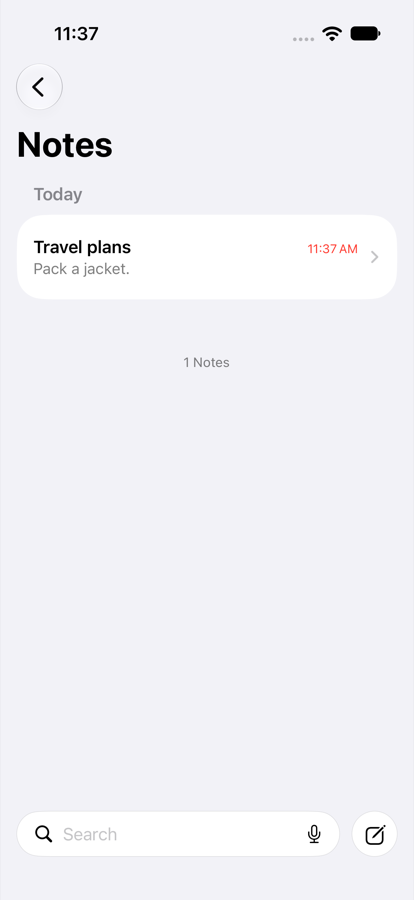
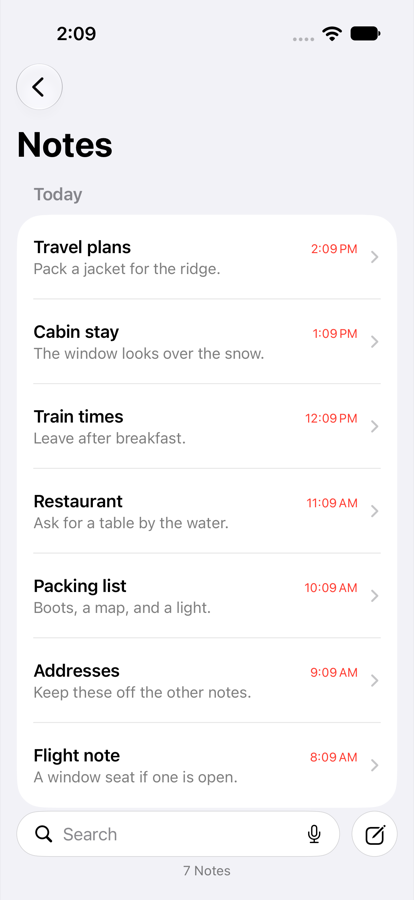
Fill the guide with folders, notes, and real photos, and show an example phrase.

diff --git a/NoteLyUITests/GuideScreenshotUITests.swift b/NoteLyUITests/GuideScreenshotUITests.swift
@@ -76,16 +76,16 @@ final class GuideScreenshotUITests: XCTestCase {
         app.launch()
 
         XCTAssertTrue(app.staticTexts["Hidden Folders"].waitForExistence(timeout: 40))
-        XCTAssertTrue(app.staticTexts["3"].waitForExistence(timeout: 8))
+        XCTAssertTrue(app.staticTexts["10"].waitForExistence(timeout: 8))
         snap("09-vault")
 
         app.staticTexts["Files"].firstMatch.tap()
-        XCTAssertTrue(app.buttons["Trip, 1"].waitForExistence(timeout: 8))
+        XCTAssertTrue(app.buttons["Trip, 3"].waitForExistence(timeout: 8))
         XCTAssertTrue(app.buttons["Harbor.jpg"].waitForExistence(timeout: 8))
         sleep(1)
         snap("12-files")
 
-        app.buttons["Trip, 1"].tap()
+        app.buttons["Trip, 3"].tap()
         XCTAssertTrue(app.buttons["Sunset.jpg"].waitForExistence(timeout: 8))
         sleep(1)
         snap("12-trip")
@@ -150,6 +150,117 @@ final class GuideScreenshotUITests: XCTestCase {
         sleep(1)
         snap("dark-files")
         XCUIDevice.shared.appearance = .light
+    }
+
+    func testCaptureFilledGuide() {
+        let app = XCUIApplication()
+        app.launchArguments = [
+            "-ui-testing",
+            "-ui-testing-skip-onboarding",
+            "-ui-testing-seed-notes"
+        ]
+        app.launch()
+        XCTAssertTrue(app.staticTexts["Folders"].waitForExistence(timeout: 12))
+        XCTAssertTrue(app.staticTexts["Personal"].waitForExistence(timeout: 6))
+        sleep(1)
+        snap("filled-folders")
+        app.staticTexts["Notes"].firstMatch.tap()
+        XCTAssertTrue(app.staticTexts["Grocery list"].waitForExistence(timeout: 6))
+        sleep(1)
+        snap("filled-notes")
+        app.staticTexts["Grocery list"].tap()
+        sleep(1)
+        snap("filled-note")
+
+        app.terminate()
+        app.launchArguments = [
+            "-ui-testing",
+            "-ui-testing-skip-onboarding",
+            "-ui-testing-open-vault"
+        ]
+        app.launchEnvironment = ["NOTELY_UITEST_PHRASE": "harbor-lantern"]
+        app.launch()
+        XCTAssertTrue(app.staticTexts["Hidden Folders"].waitForExistence(timeout: 90))
+        XCTAssertTrue(app.staticTexts["10"].waitForExistence(timeout: 8))
+        sleep(1)
+        snap("filled-hidden")
+        app.staticTexts["Notes"].firstMatch.tap()
+        XCTAssertTrue(app.staticTexts["Travel plans"].waitForExistence(timeout: 8))
+        sleep(1)
+        snap("filled-private-notes")
+        app.staticTexts["Travel plans"].tap()
+        sleep(1)
+        snap("filled-private-note")
+        app.navigationBars.buttons.element(boundBy: 0).tap()
+        app.navigationBars.buttons.element(boundBy: 0).tap()
+        app.staticTexts["Files"].firstMatch.tap()
+        XCTAssertTrue(app.buttons["Harbor.jpg"].waitForExistence(timeout: 10))
+        XCTAssertTrue(app.buttons["Trip, 3"].waitForExistence(timeout: 6))
+        sleep(1)
+        snap("filled-files")
+        app.buttons["Trip, 3"].tap()
+        XCTAssertTrue(app.buttons["Sunset.jpg"].waitForExistence(timeout: 8))
+        sleep(1)
+        snap("filled-trip")
+
+        XCUIDevice.shared.appearance = .dark
+        sleep(1)
+        app.navigationBars["Trip"].buttons["Files"].tap()
+        XCTAssertTrue(app.buttons["Harbor.jpg"].waitForExistence(timeout: 6))
+        sleep(1)
+        snap("filled-dark-files")
+        app.navigationBars.buttons.element(boundBy: 0).tap()
+        sleep(1)
+        snap("filled-dark-hidden")
+
+        app.terminate()
+        XCUIDevice.shared.appearance = .dark
+        app.launchArguments = [
+            "-ui-testing",
+            "-ui-testing-skip-onboarding",
+            "-ui-testing-seed-notes"
+        ]
+        app.launchEnvironment = [:]
+        app.launch()
+        XCTAssertTrue(app.staticTexts["Folders"].waitForExistence(timeout: 12))
+        sleep(1)
+        snap("filled-dark-folders")
+        app.staticTexts["Notes"].firstMatch.tap()
+        XCTAssertTrue(app.staticTexts["Grocery list"].waitForExistence(timeout: 6))
+        sleep(1)
+        snap("filled-dark-notes")
+
+        app.terminate()
+        XCUIDevice.shared.appearance = .light
+        app.launchArguments = [
+            "-ui-testing",
+            "-ui-testing-skip-onboarding",
+            "-ui-testing-show-phrase"
+        ]
+        app.launch()
+        XCTAssertTrue(app.staticTexts["Folders"].waitForExistence(timeout: 12))
+        app.buttons["Settings"].tap()
+        XCTAssertTrue(app.navigationBars["New phrase"].waitForExistence(timeout: 8))
+        sleep(1)
+        snap("filled-phrase")
+        XCUIDevice.shared.appearance = .light
+    }
+
+    func testCapturePhraseFilled() {
+        XCUIDevice.shared.appearance = .light
+        let app = XCUIApplication()
+        app.launchArguments = [
+            "-ui-testing",
+            "-ui-testing-skip-onboarding",
+            "-ui-testing-show-phrase"
+        ]
+        app.launch()
+        XCTAssertTrue(app.buttons["Settings"].waitForExistence(timeout: 12))
+        app.buttons["Settings"].tap()
+        XCTAssertTrue(app.navigationBars["New phrase"].waitForExistence(timeout: 8))
+        XCTAssertTrue(app.staticTexts["Strength: OK"].waitForExistence(timeout: 6))
+        sleep(1)
+        snap("filled-phrase")
     }
 
     private func snap(_ name: String) {

diff --git a/NoteLy/App/AppState.swift b/NoteLy/App/AppState.swift
@@ -873,13 +873,8 @@ final class AppState: ObservableObject {
     /// can open the private area after typing that phrase.
     private func prepareUITests() {
         if UITestHooks.openVault {
-            try? vaultStore.deleteAll()
             let key = crypto.generateKey()
-            try? vaultStore.save(
-                VaultNote(title: "Travel plans", body: "Pack a jacket."),
-                using: key
-            )
-            session.install(key)
+            try? seedGuideVaultNotes(using: key)
         }
         guard let phrase = UITestHooks.phrase else { return }
         guard let phrases = phrases as? SecretPhraseService else { return }
@@ -896,12 +891,7 @@ final class AppState: ObservableObject {
                 protection: .afterFirstUnlockThisDeviceOnly
             )
             if UITestHooks.openVault {
-                try vaultStore.deleteAll()
-                try vaultStore.save(
-                    VaultNote(title: "Travel plans", body: "Pack a jacket."),
-                    using: key
-                )
-                session.install(key)
+                try seedGuideVaultNotes(using: key)
             }
         } catch {
             VaultLog.security.error("UI test vault setup failed")
@@ -914,11 +904,61 @@ final class AppState: ObservableObject {
 
     private static var didSeedNotes = false
 
+    func seedGuideVaultNotes(using key: SymmetricKey) throws {
+        try vaultStore.deleteAll()
+        let samples = [
+            ("Travel plans", "Pack a jacket for the ridge."),
+            ("Cabin stay", "The window looks over the snow."),
+            ("Train times", "Leave after breakfast."),
+            ("Restaurant", "Ask for a table by the water."),
+            ("Packing list", "Boots, a map, and a light."),
+            ("Addresses", "Keep these off the other notes."),
+            ("Flight note", "A window seat if one is open.")
+        ]
+        for (index, sample) in samples.enumerated() {
+            let note = VaultNote(
+                title: sample.0,
+                body: sample.1,
+                updatedAt: Date().addingTimeInterval(TimeInterval(-index * 3600))
+            )
+            try vaultStore.save(note, using: key)
+        }
+        session.install(key)
+    }
+
     func seedUITestNotesIfNeeded(context: ModelContext, existingCount: Int) {
-        guard UITestHooks.seedNotes, existingCount == 0, !Self.didSeedNotes else { return }
+        guard UITestHooks.seedNotes, !Self.didSeedNotes else { return }
         Self.didSeedNotes = true
-        let note = Note(title: "Grocery list", body: "Milk and bread", colorTag: "green")
-        context.insert(note)
+        if let existing = try? context.fetch(FetchDescriptor<Note>()) {
+            existing.forEach { context.delete($0) }
+        }
+        if let folders = try? context.fetch(FetchDescriptor<NoteFolder>()) {
+            folders.filter { $0.kind == .custom }.forEach { context.delete($0) }
+        }
+        let personal = NoteFolder(name: "Personal", sortOrder: 2, kind: .custom)
+        let work = NoteFolder(name: "Work", sortOrder: 3, kind: .custom)
+        context.insert(personal)
+        context.insert(work)
+        let rows: [(String, String, String?, NoteFolder?)] = [
+            ("Grocery list", "Milk, bread, and apples.", "green", nil),
+            ("Weekend hike", "The trail starts at the ridge.", nil, nil),
+            ("Dinner idea", "Tomato pasta and a green salad.", "orange", nil),
+            ("Reading list", "Finish the chapter on the train.", nil, personal),
+            ("Gift idea", "A small framed photo from the trip.", nil, personal),
+            ("Meeting notes", "Review the draft on Monday morning.", "blue", work),
+            ("Call list", "Ask about the Thursday time.", nil, work)
+        ]
+        for (offset, row) in rows.enumerated() {
+            let note = Note(
+                title: row.0,
+                body: row.1,
+                updatedAt: Date().addingTimeInterval(TimeInterval(-offset * 1800)),
+                colorTag: row.2
+            )
+            note.folder = row.3
+            note.plainText = "\(row.0)\n\(row.1)"
+            context.insert(note)
+        }
         try? context.save()
     }
     #endif
@@ -953,6 +993,11 @@ enum UITestHooks {
     /// Opens the private area on launch so a UI test can photograph it.
     static var openVault: Bool {
         isEnabled && ProcessInfo.processInfo.arguments.contains("-ui-testing-open-vault")
+    }
+
+    /// Opens Settings on the phrase form with an example phrase already typed.
+    static var showFilledPhrase: Bool {
+        isEnabled && ProcessInfo.processInfo.arguments.contains("-ui-testing-show-phrase")
     }
 
     /// Supplied by the UI test process. Empty unless `-ui-testing` is also set.

diff --git a/NoteLy/ViewModels/VaultFilesViewModel.swift b/NoteLy/ViewModels/VaultFilesViewModel.swift
@@ -967,15 +967,23 @@ extension VaultFilesViewModel {
     func seedGuideSamples() {
         guard let master = session.key else { return }
         let trip = VaultFolder(name: "Trip")
-        let receipts = VaultFolder(name: "Receipts")
-        folders = [trip, receipts]
+        let coast = VaultFolder(name: "Coast")
+        let mountains = VaultFolder(name: "Mountains")
+        folders = [trip, coast, mountains]
         library = .empty
         library.folders = folders
         items = []
         let specs: [(String, UUID?)] = [
             ("Harbor.jpg", nil),
             ("Window.jpg", nil),
-            ("Sunset.jpg", trip.id)
+            ("Bridge.jpg", nil),
+            ("Sunset.jpg", trip.id),
+            ("Forest.jpg", trip.id),
+            ("Meadow.jpg", trip.id),
+            ("Coast.jpg", coast.id),
+            ("Quay.jpg", coast.id),
+            ("Lake.jpg", mountains.id),
+            ("Canyon.jpg", mountains.id)
         ]
         for spec in specs {
             guard let bundled = Self.guidePhotoURL(spec.0) else { continue }

diff --git a/NoteLy/Views/Components/Theme.swift b/NoteLy/Views/Components/Theme.swift
@@ -49,12 +49,11 @@ struct PlainTextBox: View {
             Text(title)
                 .font(.system(size: 17))
                 .foregroundStyle(Color(.secondaryLabel))
-            field
+            protectedField
                 .tint(Theme.accent)
                 .textInputAutocapitalization(.never)
                 .autocorrectionDisabled()
                 .textContentType(.none)
-                .privacySensitive()
                 .padding(.horizontal, 20)
                 .frame(maxWidth: .infinity, minHeight: 56, alignment: .leading)
                 .background(Theme.fieldFill, in: Capsule())
@@ -70,6 +69,19 @@ struct PlainTextBox: View {
         } else {
             TextField("", text: $text)
         }
+    }
+
+    @ViewBuilder
+    private var protectedField: some View {
+        #if DEBUG
+        if UITestHooks.showFilledPhrase {
+            field
+        } else {
+            field.privacySensitive()
+        }
+        #else
+        field.privacySensitive()
+        #endif
     }
 }
 

diff --git a/NoteLy/Views/Notes/NotesSettingsView.swift b/NoteLy/Views/Notes/NotesSettingsView.swift
@@ -110,6 +110,20 @@ struct NotesSettingsView: View {
             Text(notice)
         }
         .tint(Theme.accent)
+        .onAppear {
+            #if DEBUG
+            if UITestHooks.showFilledPhrase {
+                needsCode = false
+                showPhrase = true
+                showingChange = true
+                DispatchQueue.main.asyncAfter(deadline: .now() + 0.4) {
+                    showPhrase = true
+                    newPhrase = "bright-harbor"
+                    phraseConfirm = "bright-harbor"
+                }
+            }
+            #endif
+        }
         .onDisappear {
             versionTaps = 0
             lastVersionTap = nil

diff --git a/README.md b/README.md
@@ -22,7 +22,7 @@ Get Started, then a phrase you type twice, a 6-digit code, and optional Face ID.
 
 ### Notes
 
-Folders hold everyday notes. Search and the new-note button sit at the bottom. Settings is the gear.
+Folders hold everyday notes. The sample has three notes in Notes, two in Personal, and two in Work. Search and the new-note button sit at the bottom. Settings is the gear.
 
 | Folders | Settings |
 | --- | --- |
@@ -34,7 +34,7 @@ Folders hold everyday notes. Search and the new-note button sit at the bottom. S
 
 ### Hidden space
 
-Type the phrase into Search and submit it, then confirm with Face ID or the 6-digit code. The hidden folders use a red accent. Lock is the button at the top left. Files keeps photos, videos, and documents on this iPhone, with filters for all, photos, videos, and files.
+Type the phrase into Search and submit it, then confirm with Face ID or the 6-digit code. The hidden folders use a red accent. Lock is the button at the top left. The sample has seven private notes. Files keeps photos, videos, and documents on this iPhone, with filters for all, photos, videos, and files.
 
 | Hidden Folders | Private notes |
 | --- | --- |
@@ -44,7 +44,7 @@ Type the phrase into Search and submit it, then confirm with Face ID or the 6-di
 | --- | --- |
 | ![Private note](screenshots/11-private-note.png) | ![Files with folders and photos](screenshots/12-files.png) |
 
-All shows folders and photos together. Photos, Videos, and Files show matching items from every folder and hide the folder list. The sample photos are real scenes, about 6,000 to 6,700 pixels wide: a harbor, a cabin window, and a sunset. Trip holds the sunset. Receipts is empty.
+All shows folders and photos together. Photos, Videos, and Files show matching items from every folder and hide the folder list. There are ten real photos, about 6,000 to 6,700 pixels wide. Coast and Mountains each hold two. Trip holds a meadow, a forest, and a sunset. Harbor, the cabin window, and the bridge stay in Files.
 
 | Inside Trip | Add: Move or Copy |
 | --- | --- |
@@ -58,7 +58,7 @@ Press and hold a photo to lift it and open its menu.
 | --- |
 | ![Photo menu](screenshots/20-photo-menu.png) |
 
-**Favorite** stars the photo. **Rename** changes its name. **Move** puts it in Files or in a folder such as Trip or Receipts. That is separate from the Move button used when adding a file. **Export** shares a copy, and that copy leaves the vault. **Export without location** shares a photo copy with the location removed. The saved photo keeps its location. **Delete** moves it to Recently Deleted.
+**Favorite** stars the photo. **Rename** changes its name. **Move** puts it in Files or in a folder such as Trip, Coast, or Mountains. That is separate from the Move button used when adding a file. **Export** shares a copy, and that copy leaves the vault. **Export without location** shares a photo copy with the location removed. The saved photo keeps its location. **Delete** moves it to Recently Deleted.
 
 The gear inside Hidden Folders opens Private Settings. The page continues below the first screen.
 
@@ -78,7 +78,11 @@ The gear inside Hidden Folders opens Private Settings. The page continues below 
 
 **Change passcode** asks Face ID first. When Face ID is off, it asks for the 6-digit code, then the current code and the new one.
 
-**Change phrase** asks Face ID when it is on, otherwise the 6-digit code. There is no recovery if the new phrase is forgotten.
+**Change phrase** asks Face ID when it is on, otherwise the 6-digit code. There is no recovery if the new phrase is forgotten. The screen below has an example typed in so the fields are not empty. It is not a phrase saved on a phone.
+
+| New phrase |
+| --- |
+| ![New phrase with an example](screenshots/25-phrase.png) |
 
 **Set a second phrase** opens a separate set of ordinary sample notes. It does not open these notes, and it does not ask for Face ID. Use a phrase you will not mix up with this one.
 
